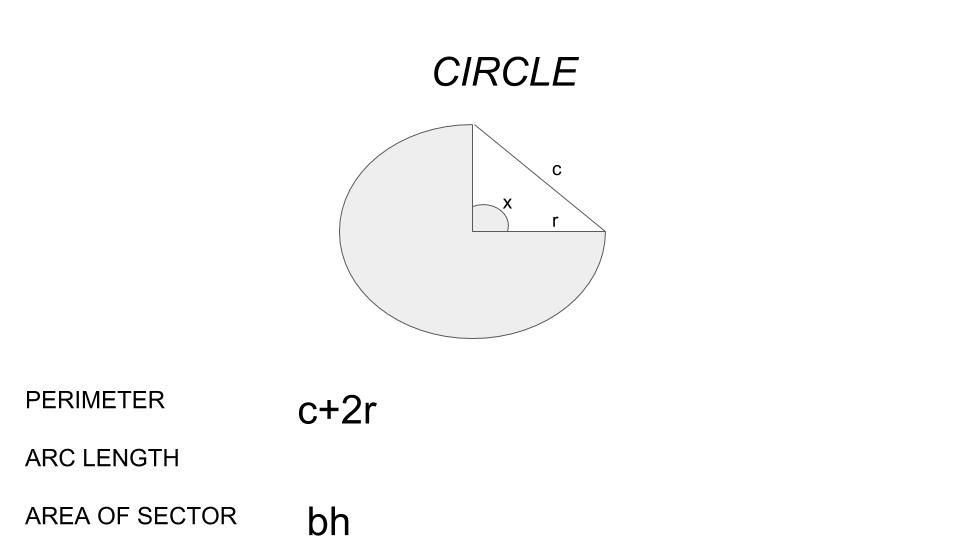
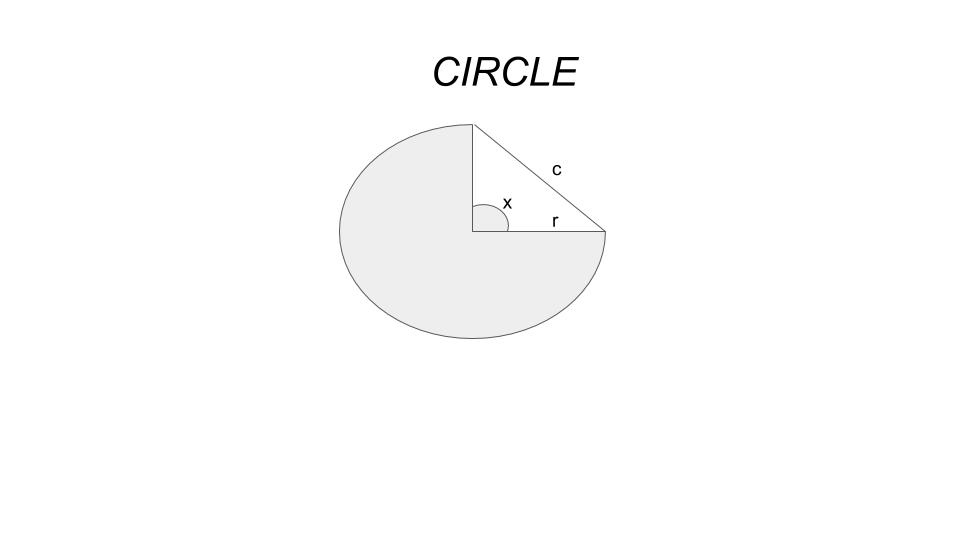
Add files via upload

diff --git a/Grades/Year_1/Percentage.html b/Grades/Year_1/Percentage.html
@@ -15,7 +15,7 @@
 	    <ul> 
 	        <!-- Enter the brief introduction here -->
             <li>In general, `x%` is expressed as `x/100`.</li> 
-            <li>One quantity can only be compared with another quantity if they are of the same unit. For example, 1 yuan is not the same as S$1.</li>
+            <li>One quantity can only be compared with another quantity if they are of the same unit. For example, `1` yuan is not the same as `S$1`.</li>
         </ul>
 
         <a class="causeSlideOnClick block resHeading" target="about" href="javascript:void(0)">Learning Objectives</a>
@@ -31,9 +31,9 @@
             <h6 class="hide" id="profitloss" class="hide" style="padding: 5px;">
                 <li>To compare profits or losses gained from buying and selling of different things, we express it as a percentage of the cost price of the item.</li>
                 <li>If Total sale price > Total cost price, there will be a percentage increase in profit. It is expressed by<br>
-                <b>(Total Sale - Total Cost)`-:`Total Cost `xx` 100%</b></li>
-                <li>If Total cost price > Total sale price, there will be a percentage loss. It is expressed by<br>
-                <b>(Total Cost - Total Sale)`-:`Total Cost `xx` 100%</b></li>
+                <b>(Total Sale `-` Total Cost) `-:` Total Cost `xx` 100%</b></li>
+                <li>If Total cost price `>` Total sale price, there will be a percentage loss. It is expressed by<br>
+                <b>(Total Cost `-` Total Sale) `-:` Total Cost `xx` 100%</b></li>
                 
             </h6>
             
@@ -41,10 +41,9 @@
             <!-- Enter the laws here -->
             <h6 class="hide" id="gst" class="hide" style="padding: 5px;">
                 <li>Discount: Discount `xx` Listed Price</li>
-                <li>Service Charge: Service Charge(Usually 10%) `xx` Listed Price</li>
-                <li>GST: Goods and Services Tax(Currently 7%) `xx` Listed Price</li>
+                <li>Service Charge: Service Charge(Usually `10%`) `xx` Listed Price</li>
+                <li>GST: Goods and Services Tax(Currently `7%`) `xx` Listed Price</li>
                 <li>Final Price: Listed Price `-` Discount `+` Service Charge `+` GST</li>
-                
             </h6>
             
         <a class="causeSlideOnClick block resHeading" target="simple" href="javascript:void(0)">Simple and Compound Interest</a>
@@ -52,22 +51,21 @@
             <h6 class="hide" id="simple" class="hide" style="padding: 5px;">
                 <li>Simple interest is a type of interest that is applied to the amount borrowed or invested for the entire duration of the loan, without taking any other factors into account, such as past interest (paid or charged) or any other financial considerations. The formula for simple interest is:</li>
                 <center><abbr style="font-size:20px">`I=PRT`</abbr><br> where `P=`principal, `R=`interest rate and `T=`time in years.</center>
-                <li>For example, if you deposited $1000 in a savings account, how much more money will you receive after 5 years if the bank pays 2% simple interest annually?<br>
+                <li>For example, if you deposited `$1000` in a savings account, how much more money will you receive after 5 years if the bank pays 2% simple interest annually?<br>
                 You would receive 10% of $1000 as simple interest.</li>
                 <li>Compound interest is the addition of interest to the principal sum of a loan or deposit, or in other words, interest on interest. The formula for compound interest is: </li>
                 <center><abbr style="font-size:20px">`I=P(1+r/n)^(nt)`</abbr><br> where `P=`principal amount, `r=`annual interest rate, `n=`number of times the interest is compounded each year and `t=`number of years.</center>
-                    
                 </h6>
         
 	    <a class="causeSlideOnClick block resHeading" target="questions" href="javascript:void(0)">Practice Questions</a>
             <!-- Enter the questions here -->
             <h6 class="hide" id="questions" class="hide" style="padding: 5px;">
-                <li>The populaton of Lazytown increased by 10% two years ago and then decreased by 10% in the last year. Their population is now 15000. What was the population of Lazytown two years ago?</li>
+                <li>The populaton of Lazytown increased by `10%` two years ago and then decreased by `10%` in the last year. Their population is now `15000`. What was the population of Lazytown two years ago?</li>
                  <abbr>Answer:</abbr>
                     <input id="ans1" type="text">
                     <a href="javascript:check(1,'15000',1)" class="rect"><b><i>Submit</i></b></a>
                     <i><u id="res1"></u></i>
-                <li>Calculate the amount of money received by investing $20000p for 9 months at 2% per annum if the interest is compounded monthly.</li>
+                <li>Calculate the amount of money received by investing `$20000` for `9` months at `2%` per annum if the interest is compounded monthly.</li>
                  <abbr>Answer:</abbr>
                     <input id="ans2" type="text">
                     <a href="javascript:check(2,'20302.01',1)" class="rect"><b><i>Submit</i></b></a>

diff --git a/Grades/Year_1/Basic Geometrical Properties and Polygons Part 1 and 2.html b/Grades/Year_1/Basic Geometrical Properties and Polygons Part 1 and 2.html
@@ -28,19 +28,52 @@
 	    <a class="causeSlideOnClick block resHeading" target="laws" href="javascript:void(0)">Types of angles</a>
             <!-- Enter the laws here -->
             <h6 class="hide" id="laws" class="hide" style="padding: 5px;">
-                <li>Acute angle is an angle that is less than 90 degrees</li>
-                <li>Right angle is an angle equivalent to 90 degrees</li>
-                <li>Obtuse angle is an angle between 90 degrees and 180 degrees (not inclusive)</li>
-                <li>Reflex angle is an angle between 180 degrees and 360 degrees (not inclusive)</li>
+                <li>Acute angle is an angle that is less than `90` degrees</li>
+                <li>Right angle is an angle equivalent to `90` degrees</li>
+                <li>Obtuse angle is an angle between `90` degrees and `180` degrees (not inclusive)</li>
+                <li>Reflex angle is an angle between `180` degrees and `360` degrees (not inclusive)</li>
                 
             </h6>
         <a class="causeSlideOnClick block resHeading" target="prop" href="javascript:void(0)">Properties of angles</a>
             <!-- Enter the laws here -->
-            <h6 class="hide" id="prop" class="hide" style="padding: 5px;">
+            <h6 class="hide res320_div" id="prop" class="hide" style="padding: 5px;">
                 <li>These are the properties of angles which are <b>very important to remember as it will help with many future topics</b></li>
-                <img src= pics/sumof.jpg alt="parallelogram" style="width:800px;height:500px;">
-                <img src= pics/parallel.jpg alt="parallelogram" style="width:800px;height:500px;">
-                <img src= pics/triangleangles.jpg alt="parallelogram" style="width:800px;height:500px;">
+                <div class="res320">
+                    <img src="pics/anglesatapoint.jpg" alt="circle" style="width:300px;height:169px;">
+                    <center><abbr class="MathJaxFont"><b>Sum of angles at a point</b></abbr><br>
+                    `a+b+c+d = 360^@`<br>
+		            <abbr class="MathJaxFont">Abbreviation:</abbr> `/_s`<abbr class="MathJaxFont"> at a point</abbr></center><br>
+    
+                </div>
+                <div class="res320">
+                    <img src="pics/anglesparallel.jpg" alt="circle" style="width:300px;height:169px;">
+                    <center><abbr class="MathJaxFont"><b>Vertically opposite angles are equal</b></abbr><br>
+                    <center>`a=b`</center><br>
+		           	<abbr class="MathJaxFont">Abbreviation:</abbr>vert.opp `/_s`</abbr></center><br>
+		           	<center><abbr class="MathJaxFont"><b>Alternate angles of parallel lines are equal</b></abbr><br>
+                    <center>`b=d`</abbr></center><br>
+		           	<abbr class="MathJaxFont">Abbreviation:</abbr>// lines, alt. `/_s`</abbr></center><br>
+		           	<center><abbr class="MathJaxFont"><b>Interior angles of parallel lines are (1)Supplementary/(2)Equal</b></abbr><br>
+                    <center>`(1)c+d=180^@`</center><br>
+                    <center>`(2)a=d`</center><br>
+		           	<abbr class="MathJaxFont">Abbreviation:</abbr>//lines, corr. `/_s`</abbr></center><br>
+		           	
+                </div>
+                <div class="res320">
+                    <img src="pics/triangleangles.jpg" alt="circle" style="width:300px;height:169px;">
+                    <center><abbr class="MathJaxFont"><b>Base angles of isoceles triangles are equal</b></abbr><br>
+                    <center>`(1)b=c`</center><br>
+                    <center>`(2)a+2c=180^@`</center><br>
+		           	<abbr class="MathJaxFont">Abbreviation:</abbr><br>
+		           	(1)base `/_s` of isos. triangle<br>
+                    (2) `/_` sum of isos. triangle  vert.opp `/_s`</abbr></center><br>
+		           	<center><abbr class="MathJaxFont"><b>Sum of angles in a triangle</b></abbr><br>
+                    <center>`a+b+c=180^@`</abbr></center><br>
+		           	<abbr class="MathJaxFont">Abbreviation:</abbr>`/_` sum of triangle</center><br>
+		           	<center><abbr class="MathJaxFont"><b>Exterior angle of triangle is equal to sum of two interior opposite angles in a triangle</b></abbr><br>
+                    <center>`d=a+b`</center><br>
+		           	<abbr class="MathJaxFont">Abbreviation:</abbr>ext.`/_` of triangle</abbr></center><br>
+                </div>
             </h6>
         <a class="causeSlideOnClick block resHeading" target="poly" href="javascript:void(0)">Polygons</a>
             <!-- Enter the laws here -->

diff --git a/Grades/Year_1/Perimeter and Area of Plane Figures.html b/Grades/Year_1/Perimeter and Area of Plane Figures.html
@@ -26,21 +26,47 @@
                 <li>Solve prolems involving the perimeter and area of figures</li>
                 
             </h6>
-	    <a class="causeSlideOnClick block resHeading" target="laws" href="javascript:void(0)">Area of Polygons</a>
+	    <a class="causeSlideOnClick block resHeading" target="laws" href="javascript:void(0)">Area and Perimeter of Polygons</a>
             <!-- Enter the laws here -->
-            <h6 class="hide" id="laws" class="hide" style="padding: 5px;">
-                <img src= pics/squarerectangle.jpg alt="square" style="width:800px;height:500px;">
-                <img src= pics/trianglecircle.jpg alt="triangle" style="width:800px;height:500px;">
-                <img src= pics/parallelogramtrapezium.jpg alt="parallelogram" style="width:800px;height:500px;">
-               
-            </h6>
-        
+            <div class="hide res320_div" id="laws" class="hide" style="padding: 5px;">
+                <div class="res320">
+                    <img src="pics/square.jpg" alt="square" style="width:300px;height:169px;"><br>
+                    <p style="text-align:center">`Perimeter=4L`<br>
+                    `Area=L^2`</p>
+                </div>
+                <div class="res320">
+                    <img src="pics/rectangle.jpg" alt="rectangle" style="width:300px;height:169px;">
+                    <center>`Perimeter=2(B+L)`</center><br>
+                    <center>`Area=B xx L`<center>
+                </div>
+                <div class="res320">
+                    <img src="pics/triangle.jpg" alt="triangle" style="width:300px;height:169px;">
+                    <center>`Perimeter=a+b+c`</center><br>
+                    <center>`Area=1/2bh=(bh)/2`<center>
+                </div>
+                <div class="res320">
+                    <img src="pics/parallelogram.jpg" alt="triangle" style="width:300px;height:169px;">
+                    <center>`Perimeter=2(b+h)`</center><br>
+                    <center>`Area=bh`<center>
+                </div>
+                <div class="res320">
+                    <img src="pics/trapezium.jpg" alt="triangle" style="width:300px;height:169px;">
+                    <center>`Area=1/2(a+b)h=((a+b)h)/2`<center>
+                </div>
+                <div class="res320_end"></div>
+            </div>
         <a class="causeSlideOnClick block resHeading" target="circles" href="javascript:void(0)">Circles</a>
             <!-- Enter the laws here -->
-            <h6 class="hide" id="circles" class="hide" style="padding: 5px;">
-        
-                <img src= pics/circle.jpg alt="circle" style="width:800px;height:500px;">
-            </h6>
+            <div class="hide res320_div" id="circles" class="hide" style="padding: 5px;">
+                 <div class="res320">
+                    <img src="pics/newcircle.jpg" alt="circle" style="width:300px;height:169px;">
+                    <center>`Perimeter=2pir`</center><br>
+                    <center>`Area=pir^2`</center><br>
+                    <center><abbr class="MathJaxFont mi">Arc Length</abbr>`=(x/360) xx 2pir`</center><br>
+                    <center><abbr class="MathJaxFont">Area of Sector</abbr>`=(x/360) xx pir^2`</center>
+                </div>
+                <div class="res320_end"></div>
+            </div>
         
         <div style="height:20px"></div>
     </body>

diff --git a/Formulae.html b/Formulae.html
@@ -11,8 +11,33 @@
 	<body>
 	    <h1 id="heading">Formulae</h1>
         <ol>
+            <li>`(a+b)+c=a+(b+c)`</li>
+            <li>`(ab)c=a(bc)`</li>
+            <li>`[a,b]=ab-:(a,b)`</li>
+            <li>Mean of a group of number `a_1`, `a_2`</sub>, `...`, `a_n`</sub><br>`=(a_1+a_2+...+a_n)/n`</li>
+            <li>The sum of interior angles of a n-sided polygon `=(n-2) xx 180^@`</li>
+            <li>The interior angle of a <b>regular</b> n-sided polygon `=((n-2) xx 180^@)/n`</li>
+            <li>Volume of prism`=Base Area xx Height`</li>
+            <li>Surface area of prism`=2A + P xx H`</li>
+            <li>Volume of cylinder`=pir^2h`</li>
+            <li>Surface area of cylinder`=2A + P xx H`</li>
+            <li>Curved surface area of cylinder`=2pir^2`</li>
+            <li>`x%=x/100`</li>
+            <li>Percentage profit`=`(Total Sale `-` Total Cost) `-:` Total Cost `xx` 100%</li>
+            <li>Percentage loss`=`(Total Cost `-` Total Sale) `-:` Total Cost `xx` 100%</li>
+            <li>Discount amount`=`Discount `xx` Listed Price</li>
+            <li>Service Charge`=`Service Charge `xx` Listed Price</li>
+            <li>GST`=`Goods and Services Tax `xx` Listed Price</li>
+            <li>Final Price`=`Listed Price `-` Discount `+` Service Charge `+` GST</li>
+            <li>Simple interest, `I=PRT`</li>
+            <li>Compound interest, `I=P(1+r/n)^(nt)`</li>
+            <!--
             <li>``</li>
             <li>``</li>
+            <li>``</li>
+            <li>``</li>
+            <li>``</li>
+            -->
         </ol>
         <div style="height:20px"></div>
     </body>

diff --git a/Grades/Year_1/Basic Algebra and Algebraic Manipulation.html b/Grades/Year_1/Basic Algebra and Algebraic Manipulation.html
@@ -30,7 +30,7 @@
 	    <a class="causeSlideOnClick block resHeading" target="laws" href="javascript:void(0)">Factorisation</a>
             <!-- Enter the laws here -->
             <h6 class="hide" id="laws" class="hide" style="padding: 5px;">
-                <li>For a easier way to learn factorsation, visit </li>
+                <li>For a easier way to learn factorsation, visit <a class="rect" href="https://pipix51.github.io/DHSY2-Math-Webapp/index.html"><b>this website.</b></a></li>
             </h6>
 	    <a class="causeSlideOnClick block resHeading" target="questions" href="javascript:void(0)">Practice Questions</a>
             <!-- Enter the questions here -->
@@ -42,12 +42,12 @@
                     <input id="ans1" type="text">
                     <a href="javascript:check(1,'-1/3',1)" class="rect"><b><i>Submit</i></b></a>
                     <abbr id="res1"></abbr>
-                <li>Simplify the expression `(x-(y-x))-(x-(x+y))</li>
+                <li>Simplify the expression `(x-(y-x))-(x-(x+y))`</li>
                     <abbr>Answer:</abbr>
                     <input id="ans2" type="text">
                     <a href="javascript:check(2,'2x',1)" class="rect"><b><i>Submit</i></b></a>
                     <abbr id="res2"></abbr>
-                <li>Simplify the expression `(3(x-2))/5x - (x+2)/3x</li>
+                <li>Simplify the expression `(3(x-2))/5x - (x+2)/3x`</li>
                 <abbr>Answer:</abbr>
                     <input id="an3" type="text">
                     <a href="javascript:check(3,'(4x-28)/15x',1)" class="rect"><b><i>Submit</i></b></a>

diff --git a/Grades/Year_1/Statistics (Data Handling and Analysis).html b/Grades/Year_1/Statistics (Data Handling and Analysis).html
@@ -31,8 +31,8 @@
             <h6 class="hide" id="mean" class="hide" style="padding: 5px;">
                 <li>Mean is simply the average that we all know.</li>
                 <li>We sum up all the raw data and divide the value by the number of subjects we have.</li>
-                <li>For example, say we have 8 students, each having test scores in increments of 10. Their mean score would be:<br>
-                `(10+20+30+40+50+60+70+80+90+100)/10 = 55`</li>
+                <li>For example, say we have `9` students, each having test scores in increments of `1`. Their mean score would be:<br>
+                `(1+2+3+4+5+6+7+8+9)/9` `=5`</li>
                 
             </h6>
         <a class="causeSlideOnClick block resHeading" target="median" href="javascript:void(0)">Median</a>
@@ -47,8 +47,7 @@
             <!-- Enter the laws here -->
             <h6 class="hide" id="mode" class="hide" style="padding: 5px;">
                 <li>The mode is the measure that has the highest frequency</li>
-                <li>For example, the mode for this set of data: `56,45,78,34,12,45,34,45,66`<br>
-                is `45`.</li>
+                <li>For example, the mode for this set of data: `56,45,78,34,12,45,34,45,66` is `45`.</li>
             </h6>
 	    <a class="causeSlideOnClick block resHeading" target="questions" href="javascript:void(0)">Practice Questions</a>
             <!-- Enter the questions here -->

diff --git a/javascripts/lib/material/main.js b/javascripts/lib/material/main.js
@@ -68,6 +68,22 @@ oliverC.refresh=function(){
 }
 oliverC.resize=function(){
     document.getElementById("container1").style.width=document.getElementById("container2").offsetWidth+18+"px";
+    var imgWidth,imgHeight;
+    if($(window).width()<=410){
+        $(".res320").css("max-width",$(window).width()+"px");
+        $(".res320_div").css("text-align","center");
+        $(".MathJaxFont").css("font-family","MathJax_Math");
+        imgWidth=$(window).width();
+        imgHeight=imgWidth*180/320;
+    }else{
+        $(".MathJaxFont").css("font-family","MathJax_Math-italic");
+        $(".res320_div").css("text-align","left");
+        $(".res320").css("max-width","410px");
+        imgWidth=410;
+        imgHeight=imgWidth*180/320;
+    }
+    $(".res320 img").css("width",imgWidth);
+    $(".res320 img").css("height",imgHeight);
     if(document.body.clientWidth<=500){
         if(document.body.clientWidth<=350)searchWidth="150px"; else searchWidth="200px";
         $("#heading").css("font-size","30px");

diff --git a/javascripts/layout.js b/javascripts/layout.js
@@ -14,8 +14,8 @@ var base='  <div class="mdl-layout mdl-js-layout mdl-layout--fixed-header"> \
                     <div id="searchingBox" height="300px"><ul id="searchingList"></ul></div> \
                     </div> \
                 </header> \
-                <div class="mdl-layout__drawer" style="overflow-y:hidden" id="container2"> \
-                    <div style="overflow-y:scroll;overflow-x:hidden" id="container1"> \
+                <div class="mdl-layout__drawer" style="overflow-y:hidden;overflow-x:hidden" id="container2"> \
+                    <div style="overflow-y:scroll;overflow-x:hidden;position:relative;left:0px" id="container1">\
                     <a class="block" href="/" style="font-size:36px;margin-top:15px;">Home</a> \
                     <a class="block" style="font-size:36px" target="y1" href="javascript:void(0);" id="y_1">Topics</a> \
                     <div id="y1" class="hide"></div>\

diff --git a/Grades/Year_1/Linear Algebraic Equations.html b/Grades/Year_1/Linear Algebraic Equations.html
@@ -46,7 +46,7 @@
             <!-- Enter the laws here -->
             <h6 class="hide" id="frac" class="hide" style="padding: 5px;">
                 <li>When 2 numbers are equal, the numerators are equal <b>IF</b> the denominators are equal and vice versa</li>
-                <li>For example, `x/6 = 5/6, x=5</li>
+                <li>For example, `x/6 = 5/6, x=5`</li>
                 
             </h6>
             

diff --git a/css/material.css b/css/material.css
@@ -64,3 +64,15 @@ html {
 -ms-overflow-style:none;
 overflow:-moz-scrollbars-none;
 }
+.res320{
+    float:left;
+    max-width:320px;
+}
+.res320_end{
+    clear:both;
+}
+.MathJaxFont{
+    font-family:MathJax_Math;
+    font-style:italic;
+    font-size:16px;
+}
